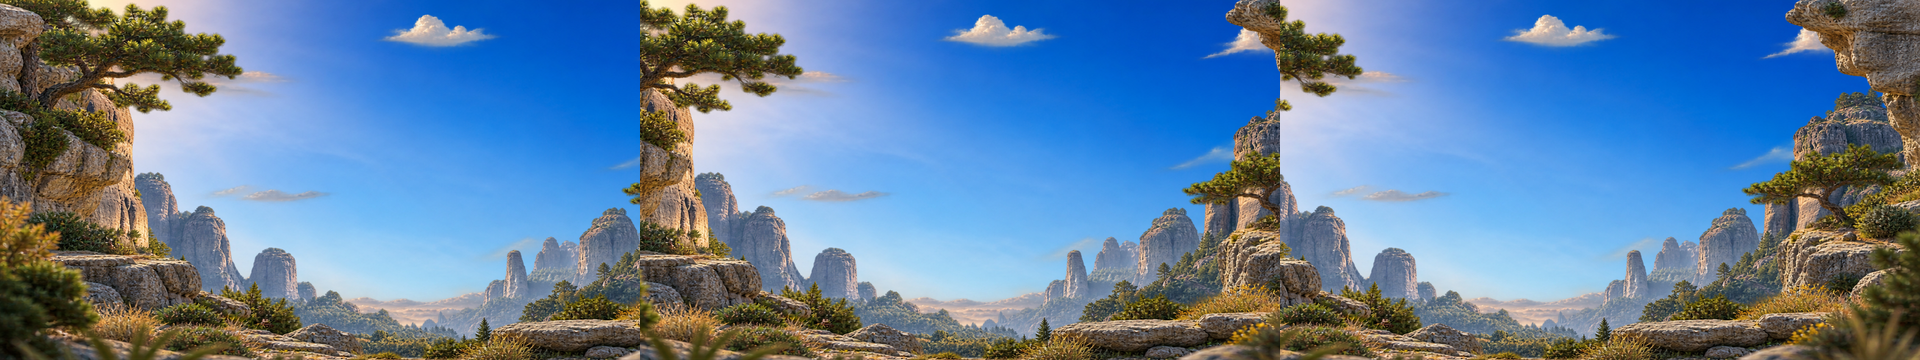
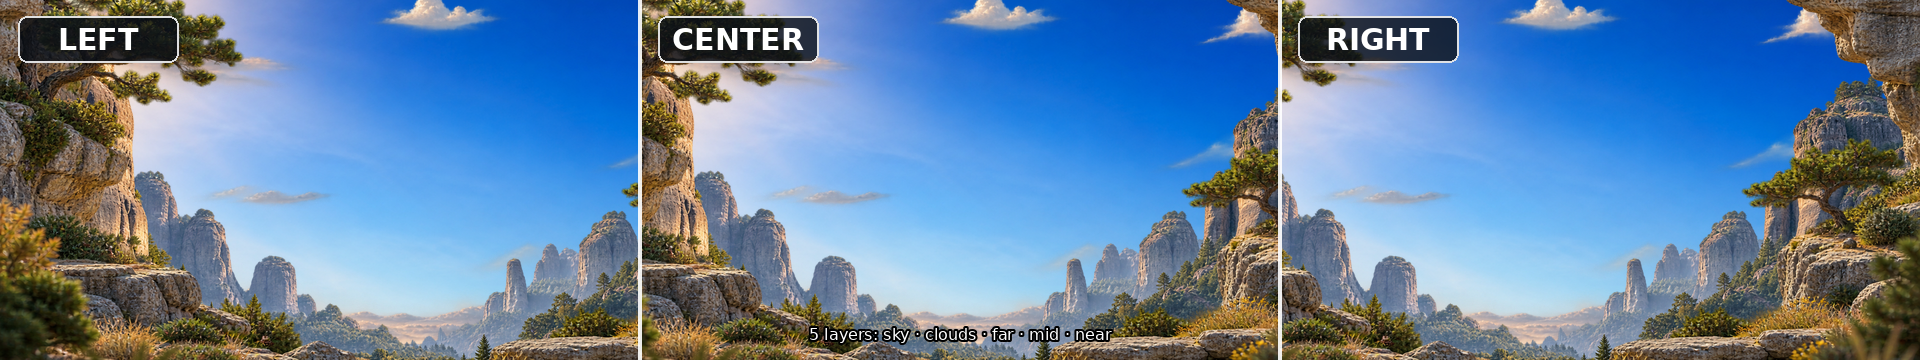
docs: clarify Meteora Unity slicing handoff

diff --git a/Assets/Art/Meteora/README.md b/Assets/Art/Meteora/README.md
@@ -5,7 +5,7 @@ This directory contains the repaired starter runtime art pack for the first Mete
 Review references saved outside runtime imports:
 
 - [Repaired atlas contact sheet](../../../docs/concept-art/asset-previews/meteora-level-01-repaired-atlases.png)
-- [Parallax safe-crop comparison](../../../docs/concept-art/asset-previews/meteora-level-01-parallax-safe-crops.png)
+- [Five-layer parallax safe-crop comparison](../../../docs/concept-art/asset-previews/meteora-level-01-parallax-safe-crops.png)
 
 ## Permanent PNG integrity gate
 
@@ -18,9 +18,19 @@ python3 Tools/Art/validate_meteora_art.py --root . --manifest Assets/Art/Meteora
 
 A PNG signature or valid IHDR header alone is insufficient. The validator checks the complete chunk stream and CRCs, requires consecutive IDAT chunks, inflates the full IDAT payload to the exact expected scanline length, validates scanline filter bytes, and requires a valid terminal IEND chunk. It also verifies the manifest inventory, order, SHA-256 values, dimensions, and RGB/RGBA alpha contracts.
 
+## Coordinate conventions
+
+All source packing and crop bounds below are half-open `(x0,y0)-(x1,y1)`: `x1` and `y1` are excluded. Source-image origin is top-left and source `y` increases downward.
+
+Unity Sprite Editor uses bottom-left origin and `y` increases upward. Every `SpriteRect(x,y,w,h)` below is computed from a source rect in an image of height `H` as:
+
+`SpriteRect(x0, H-y1, x1-x0, y1-y0)`.
+
+Use the exact deterministic names below when creating manual SpriteRects and the corresponding `.meta` import data in Unity. Unity import has not run, so all rectangles and pivots remain unvalidated in the Editor and `unityValidated` remains `false`.
+
 ## Parallax composition and tested crop envelope
 
-Compose the background in this back-to-front order:
+Compose all five background layers in this back-to-front order:
 
 1. `Backgrounds/Level01/sky-base.png`
 2. `Backgrounds/Level01/clouds-far.png`
@@ -29,69 +39,119 @@ Compose the background in this back-to-front order:
 5. `Backgrounds/Level01/cliffs-near.png`
 6. Gameplay sprites over the existing greybox collision geometry
 
-Provisional movement factors, relative to camera movement, are `0.00` for sky, `0.05` for clouds, `0.10` for far Meteora, `0.20` for mid Meteora, and `0.35` for near cliffs.
+The committed LEFT / CENTER / RIGHT preview composites all five layers. Provisional movement factors, relative to camera movement, are `0.00` for sky, `0.05` for clouds, `0.10` for far Meteora, `0.20` for mid Meteora, and `0.35` for near cliffs.
 
-The reviewed 80% source-pixel crop envelope is:
+Here “80%” means the horizontal overscan envelope: the visible crop is approximately 80% of source width, leaving approximately 10% horizontal travel on each side. Source width determines a 16:9 crop height, rounded to whole pixels and vertically centered. It does not mean every source uses 80% of its height.
 
-| Source layer | Center crop | Left crop | Right crop |
-|---|---|---|---|
-| `sky-base.png` (1774×887) | `(177,44)–(1596,842)` | `x=0–1419, y=44–842` | `x=355–1774, y=44–842` |
-| Other parallax layers (1672×941) | `(167,94)–(1505,847)` | `x=0–1338, y=94–847` | `x=334–1672, y=94–847` |
+| Source layer | LEFT source crop | CENTER source crop | RIGHT source crop | Exact crop size |
+|---|---|---|---|---|
+| `sky-base.png` (1774×887) | `(0,44)-(1419,842)` | `(177,44)-(1596,842)` | `(355,44)-(1774,842)` | `1419×798` (~80% width, ~90% height) |
+| Each 1672×941 overlay: clouds, far, mid, near | `(0,94)-(1338,847)` | `(167,94)-(1505,847)` | `(334,94)-(1672,847)` | `1338×753` (~80% width and height) |
 
-Keep provisional camera movement inside this tested source-pixel envelope. Final world-space camera bounds, common display bounds, seams, crop, route readability, and parallax factors must be tuned in Unity.
+These crop coordinates use the half-open top-left/y-down source convention. Keep provisional camera movement inside this tested source-pixel envelope. Final world-space camera bounds, common display bounds, seams, crop, route readability, and parallax factors must be tuned in Unity.
 
-## Deterministic sprite slicing maps
+## Deterministic SpriteRects
 
-Manual SpriteRects and their `.meta` import data will be created in Unity. Until the Unity Editor is available and those imports are tested, slicing remains unvalidated and `unityValidated` must remain `false`.
+### Rock surfaces — 1254×1254 RGB
 
-### Characters and controls
+Each source quadrant is 627×627. The Unity-visible core is offset `(+12,+12)` inside its source quadrant and is 603×603. The surrounding 12px wrapped extrusion is bleed protection and is excluded from SpriteRects.
 
-- `Characters/Kolo/kolo-normal-sheet.png`: 5 separated character states; choose pivots per action.
-- `Characters/Kolo/kolo-heavy-sheet.png`: 4 separated Heavy states; choose pivots per action.
-- `../UI/Controls/touch-controls-atlas.png`: 3×2 order: left, right, jump; roll/flatten, interact/tap, pause.
-
-### Rock surfaces
-
-`Environment/rock-surfaces-atlas.png` uses four 627×627 quadrants:
-
-| Row | Left | Right |
+| Name | Source core `(x0,y0)-(x1,y1)` | Unity rect |
 |---|---|---|
-| Top | natural cliff face | hand-cut monastery stone |
-| Bottom | cracked bridge stone | flat walkable limestone |
+| `rock_natural_cliff` | `(12,12)-(615,615)` | `SpriteRect(12,639,603,603)` |
+| `rock_monastery_stone` | `(639,12)-(1242,615)` | `SpriteRect(639,639,603,603)` |
+| `rock_cracked_bridge` | `(12,639)-(615,1242)` | `SpriteRect(12,12,603,603)` |
+| `rock_walkable_limestone` | `(639,639)-(1242,1242)` | `SpriteRect(639,12,603,603)` |
 
-Inside every quadrant, the Unity-visible/core SpriteRect starts at local `(+12,+12)` and is exactly `603×603`. The surrounding 12px wrapped extrusion is texture bleed protection and must be excluded from each SpriteRect.
+The conversion is exact: for the top row, `1254-615=639`; for the bottom row, `1254-1242=12`.
 
-### Wood, rope, bronze, and interactables
+### Wood, rope, and bronze — 1254×1254 RGBA
 
-Both `Environment/wood-rope-bronze-atlas.png` and `Environment/interactables-atlas.png` use:
+Source cells use x starts `1,314,627,940`, width `313`; source y starts `0,627`, height `627`. Each cell contains a 12px transparent inner gutter.
 
-- x starts `1, 314, 627, 940`, width `313`;
-- y starts `0, 627`, height `627`;
-- a 12px transparent inner gutter inside every cell boundary.
+| Name | Source cell | Unity rect |
+|---|---|---|
+| `wood_plank_platform` | `(1,0)-(314,627)` | `SpriteRect(1,627,313,627)` |
+| `wood_beam_end` | `(314,0)-(627,627)` | `SpriteRect(314,627,313,627)` |
+| `rope_straight` | `(627,0)-(940,627)` | `SpriteRect(627,627,313,627)` |
+| `rope_coiled_connector` | `(940,0)-(1253,627)` | `SpriteRect(940,627,313,627)` |
+| `wood_pulley` | `(1,627)-(314,1254)` | `SpriteRect(1,0,313,627)` |
+| `bronze_hook` | `(314,627)-(627,1254)` | `SpriteRect(314,0,313,627)` |
+| `bronze_pressure_plate` | `(627,627)-(940,1254)` | `SpriteRect(627,0,313,627)` |
+| `bronze_hinge_axle` | `(940,627)-(1253,1254)` | `SpriteRect(940,0,313,627)` |
 
-Wood/rope/bronze order:
+### Interactables — 1254×1254 RGBA
 
-| Row | Cell 1 | Cell 2 | Cell 3 | Cell 4 |
-|---|---|---|---|---|
-| Top | plank platform | beam end | straight rope | coiled rope/connector |
-| Bottom | pulley | hook | pressure plate | hinge/axle |
+Interactables use the same x/y cell map and 12px transparent inner gutter as the wood atlas.
 
-Interactables order:
+| Name | Source cell | Unity rect |
+|---|---|---|
+| `plate_raised` | `(1,0)-(314,627)` | `SpriteRect(1,627,313,627)` |
+| `plate_pressed` | `(314,0)-(627,627)` | `SpriteRect(314,627,313,627)` |
+| `stone_pushable` | `(627,0)-(940,627)` | `SpriteRect(627,627,313,627)` |
+| `platform_hanging` | `(940,0)-(1253,627)` | `SpriteRect(940,627,313,627)` |
+| `platform_cracked` | `(1,627)-(314,1254)` | `SpriteRect(1,0,313,627)` |
+| `heavy_water_source` | `(314,627)-(627,1254)` | `SpriteRect(314,0,313,627)` |
+| `finish_bell` | `(627,627)-(940,1254)` | `SpriteRect(627,0,313,627)` |
+| `sesame_collectible` | `(940,627)-(1253,1254)` | `SpriteRect(940,0,313,627)` |
 
-| Row | Cell 1 | Cell 2 | Cell 3 | Cell 4 |
-|---|---|---|---|---|
-| Top | raised plate | pressed plate | pushable stone | hanging platform |
-| Bottom | cracked platform with grouped debris | Heavy water source | finish bell | sesame with grouped sparkles |
+Cracked debris, sesame sparkles, and other grouped marks remain inside their named cell.
 
-### Water and honey effects
+### Water and honey effects — 1254×1254 RGBA
 
-`Environment/water-honey-effects.png` uses a 3×3 map with x/y starts `0, 418, 836` and exact cell size `418×418`:
+Source x/y starts are `0,418,836`; every cell is 418×418. Source rows y `0,418,836` convert to Unity y `836,418,0`.
 
-| Row | Cell 1 | Cell 2 | Cell 3 |
+| Name | Source cell | Unity rect |
+|---|---|---|
+| `water_pool_edge` | `(0,0)-(418,418)` | `SpriteRect(0,836,418,418)` |
+| `water_splash_group` | `(418,0)-(836,418)` | `SpriteRect(418,836,418,418)` |
+| `water_droplet_small` | `(836,0)-(1254,418)` | `SpriteRect(836,836,418,418)` |
+| `water_droplet_medium` | `(0,418)-(418,836)` | `SpriteRect(0,418,418,418)` |
+| `water_droplet_large` | `(418,418)-(836,836)` | `SpriteRect(418,418,418,418)` |
+| `heavy_water_sheen` | `(836,418)-(1254,836)` | `SpriteRect(836,418,418,418)` |
+| `honey_coating` | `(0,836)-(418,1254)` | `SpriteRect(0,0,418,418)` |
+| `honey_drip` | `(418,836)-(836,1254)` | `SpriteRect(418,0,418,418)` |
+| `landing_dust` | `(836,836)-(1254,1254)` | `SpriteRect(836,0,418,418)` |
+
+### Touch controls — 1254×1254 RGBA
+
+The UI uses a 3×2 map: source x starts `0,418,836`, width `418`; source top y `0` converts to Unity y `627`, and source bottom y `627` converts to Unity y `0`; height is `627`.
+
+| Name | Source cell | Unity rect |
+|---|---|---|
+| `ui_left` | `(0,0)-(418,627)` | `SpriteRect(0,627,418,627)` |
+| `ui_right` | `(418,0)-(836,627)` | `SpriteRect(418,627,418,627)` |
+| `ui_jump` | `(836,0)-(1254,627)` | `SpriteRect(836,627,418,627)` |
+| `ui_roll_flatten` | `(0,627)-(418,1254)` | `SpriteRect(0,0,418,627)` |
+| `ui_interact` | `(418,627)-(836,1254)` | `SpriteRect(418,0,418,627)` |
+| `ui_pause` | `(836,627)-(1254,1254)` | `SpriteRect(836,0,418,627)` |
+
+### Kolo character sheets — CI alpha evidence
+
+A temporary exact-head CI measurement used Pillow to inspect every pixel with alpha > 0. State order is fixed by the approved generation brief.
+
+Normal order is `kolo_idle`, `kolo_rolling`, `kolo_jump`, `kolo_landing_squash`, `kolo_surprised`. The measured half-open alpha bboxes were:
+
+| Name | Alpha bbox |
+|---|---|
+| `kolo_idle` | `(24,311)-(334,627)` |
+| `kolo_rolling` | `(431,313)-(646,626)` |
+| `kolo_jump` | `(729,259)-(1064,580)` |
+| `kolo_landing_squash` | `(1064,445)-(1389,631)` |
+| `kolo_surprised` | `(1458,311)-(1751,627)` |
+
+The Normal jump occupies alpha through column `1063`, while landing begins at `1064`. There is no transparent separator column, so a non-overlapping five-rect layout with padding cannot be derived without cutting a pose or guessing ownership. Do not auto-slice this sheet and do not commit Normal SpriteRects yet. Inspect it at original resolution in Unity, repair/repack the source into separated cells if necessary, then record five manual rectangles. Normal slicing is explicitly deferred rather than presenting unsafe coordinates.
+
+Heavy order and 12px evidence-derived padded rectangles are unambiguous:
+
+| Name | Alpha bbox | Padded source rect | Unity rect |
 |---|---|---|---|
-| Top | pool edge | splash with grouped droplets | small droplet |
-| Middle | medium droplet | large droplet | subtle water-ring Heavy sheen |
-| Bottom | honey coating | honey drip | grouped landing dust |
+| `kolo_heavy_idle` | `(83,280)-(404,622)` | `(71,268)-(416,634)` | `SpriteRect(71,253,345,366)` |
+| `kolo_heavy_rolling` | `(490,302)-(861,625)` | `(478,290)-(873,637)` | `SpriteRect(478,250,395,347)` |
+| `kolo_heavy_jump` | `(953,217)-(1262,539)` | `(941,205)-(1274,551)` | `SpriteRect(941,336,333,346)` |
+| `kolo_heavy_landing_squash` | `(1334,402)-(1691,629)` | `(1322,390)-(1703,641)` | `SpriteRect(1322,246,381,251)` |
+
+These Heavy rectangles cover all measured alpha, retain 12px padding, and do not overlap. Pivots still require Unity visual verification.
 
 ## Alpha and collision authority
 
@@ -104,6 +164,7 @@ The existing greybox colliders remain authoritative. Visual sprites, painted roc
 Unity import and device performance validation have not been run. Before shipping, verify:
 
 - Texture import mode, alpha handling, manual SpriteRect names, pivots, PPU, and generated `.meta` files.
+- Repair/repack and manually slice the ambiguous Normal Kolo sheet before gameplay use.
 - Character and object scale against the authoritative greybox colliders.
 - Final background crop, common display bounds, camera coverage, seams, route readability, and tuned parallax speeds.
 - `meteora-far.png` residual-alpha trimming; faint pixels may expand bounds or increase transparent overdraw.

diff --git a/docs/superpowers/plans/2026-08-25-meteora-art-png-repair.md b/docs/superpowers/plans/2026-08-25-meteora-art-png-repair.md
@@ -169,7 +169,7 @@ Confirm there are no black/truncated regions, corrupt scanlines, accidental text
 - [x] **Step 5: Commit final metadata and plan state**
 
 ```bash
-git add Assets/Art/Meteora/meteora-level-01-art-manifest.json Assets/Art/Meteora/README.md docs/superpowers/plans/2026-08-25-meteora-art-png-repair.md
+git add Assets/Art/Meteora/meteora-level-01-art-manifest.json Assets/Art/Meteora/README.md docs/superpowers/plans/2026-08-25-meteora-art-png-repair.md docs/concept-art/asset-previews/meteora-level-01-repaired-atlases.png docs/concept-art/asset-previews/meteora-level-01-parallax-safe-crops.png
 git commit -m "docs: finalize repaired Meteora art pack"
 ```
 
